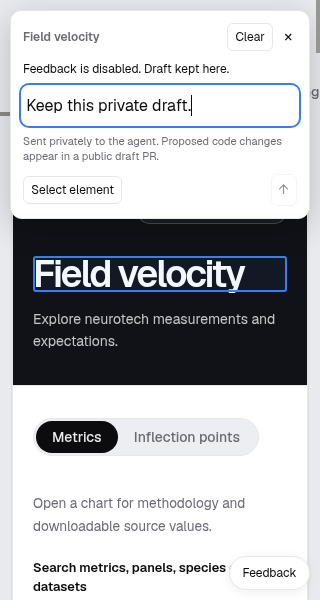
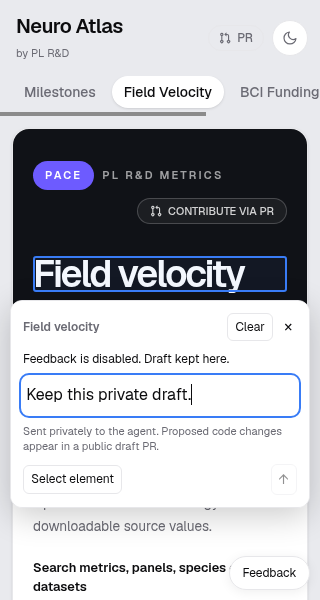
test: verify mobile element anchoring and viewport resize clamping

diff --git a/scripts/qa/feedback-element-browser.py b/scripts/qa/feedback-element-browser.py
@@ -32,7 +32,24 @@ colors=js('''(()=>{const d=document.querySelector('[data-feedback-composer]'),i=
 capture_screenshot(path=str(out/'dark-composer-1440.png'))
 press_key('Escape');wait('!document.querySelector("[data-feedback-composer]")')
 click('button[aria-label="Switch to light mode"]');wait('!document.documentElement.classList.contains("dark")')
-result={'nativeNestedSvgButtonPick':True,'underlyingThemeActionSuppressed':True,'hoverOutlineMatchesActualButton':measure,'darkComposer':colors,'lightThemeRestored':True}
+cdp('Emulation.setDeviceMetricsOverride',width=390,height=1000,deviceScaleFactor=1,mobile=True)
+goto_url(base);wait_for_load();wait('!!document.querySelector(".atlas-feedback-launch")')
+click('.atlas-feedback-launch');wait('!!document.querySelector("[data-feedback-selection]:popover-open")')
+pick('h2','mobile-midpage-390')
+narrow=geometry(390)
+assert narrow['anchor'] and narrow['top']>12,narrow
+capture_screenshot(path=str(out/'mobile-anchored-390.png'))
+cdp('Emulation.setDeviceMetricsOverride',width=390,height=400,deviceScaleFactor=1,mobile=True)
+# Actual viewport resize drives the same placement listeners used for a software keyboard.
+wait('innerHeight===400')
+# CDP metrics changes precede the queued resize/visualViewport placement callback.
+# Await the actual UI condition, not only the synchronous window metric.
+wait("document.querySelector('[data-feedback-composer]').getBoundingClientRect().bottom <= 400")
+keyboard=geometry(390)
+assert keyboard['bottom']<=400,keyboard
+capture_screenshot(path=str(out/'mobile-keyboard-clamp-390.png'))
+press_key('Escape');wait('!document.querySelector("[data-feedback-composer]")')
+result={'nativeNestedSvgButtonPick':True,'underlyingThemeActionSuppressed':True,'hoverOutlineMatchesActualButton':measure,'darkComposer':colors,'lightThemeRestored':True,'narrowElementAnchoring':narrow,'keyboardSizedViewportClamp':keyboard}
 (out/'extra-native-results.json').write_text(json.dumps(result,indent=2)+'\n')
 print(json.dumps(result))
 assert colors['contrast']>=4.5,colors

diff --git a/scripts/qa/feedback-browser.py b/scripts/qa/feedback-browser.py
@@ -49,8 +49,8 @@ def geometry(width):
  if anchor:
   below=anchor['bottom']+8
   above=anchor['top']-result['height']-8
-  if below+result['height']<=result['viewportHeight']-10:assert abs(result['top']-below)<=2,result
-  elif above>=10:assert abs(result['top']-above)<=2,result
+  if below>=10 and below+result['height']<=result['viewportHeight']-10:assert abs(result['top']-below)<=2,result
+  elif above>=10 and above+result['height']<=result['viewportHeight']-10:assert abs(result['top']-above)<=2,result
  return result
 results=[]
 for width in [1440,390,320]:

diff --git a/docs/qa/feedback/README.md b/docs/qa/feedback/README.md
@@ -1,6 +1,6 @@
 # One-field feedback native QA
 
-Runtime source: `b1955fc881f1a81b32f6c4da1592eb3ba1076616`. The final evidence-only head is runtime-equivalent; exact-head tests/review receipts are in the PR.
+Runtime source: `a5098ff1084ceae1e4cd4f6f8a1a916faf3687d4`. The final evidence-only head is runtime-equivalent; exact-head tests/review receipts are in the PR.
 
 Captures use the **actual Atlas Next production build** mounted at `/neuro-atlas` on a disposable `127.0.0.1:35641` fixture. Only the copied proxy is replaced by a raw-Host/runtime-flag guard; it is never committed or deployed. Its exact source-revision header was checked before native replays. Source auth, scientific data and hosting configuration are unchanged. The owner's private reference recording is not published here.
 
@@ -8,7 +8,7 @@ Captures use the **actual Atlas Next production build** mounted at `/neuro-atlas
 
 - `native-results.json`: actual heading and native-chart hover outlines, click-to-pin compact composer, exactly ONE textarea/zero input fields, disabled draft retention, reselect/Escape/focus and unchanged underlying native chart at 1440/390/320px. The 320px case is 600px tall. Requested viewport width, actual inner width, document/client width and popup bounds are checked.
 - `synthetic-ui-results.json`: actual rendered client with **explicitly synthetic identity/network/popup peers** at those three widths. Picking the original chart's Close button suppresses its full activation sequence. Enter submits; Shift+Enter makes a newline. Failed retry retains identical UUID/body/element; confirmed save closes the composer and shows a real top-layer “Feedback saved” toast above the original modal. Received is not started; no PR/preview is invented. Same-ID follow-up and keyboard focus are exercised.
-- `extra-native-results.json`: actual nested theme-button SVG targets its button without toggling it, outline geometry matches the exact button, dark input contrast is measured in the real app, and light mode is restored. These are pointer/browser checks, not a physical-phone touch certification.
+- `extra-native-results.json`: actual nested theme-button SVG targets its button without toggling it, outline geometry matches the exact button, dark input contrast is measured in the real app, and light mode is restored. At 390 × 1000, a middle-of-page heading pins the composer 8px below its actual outline, rather than at the viewport top. Resizing to 390 × 400 verifies the same mounted composer responds to actual viewport changes and clamps on-screen; this simulates the available-space change from a software keyboard, not a physical-keyboard test. The replay awaits the actual queued placement result after CDP's synchronous metric update. These are pointer/browser checks, not a physical-phone touch certification.
 - One replay encountered a backgrounded headed tab after a synthetic popup. Readback showed the composer still open and the page hidden; fronting the same owned page made History work. The helper now fronts/paints before measuring each pointer action. The complete strengthened matrices then passed; no product or auth change was made for that harness issue.
 
 ## Privacy and integration
@@ -34,6 +34,8 @@ Synthetic script registration is removed in finally; navigation clears its in-pa
 - `composer-1440.png` / `composer-320.png`: real page-heading feedback; narrow short viewport remains bounded.
 - `chart-composer-1440.png`: feedback anchored below the selected plot while its native modal remains open.
 - `dark-composer-1440.png`: real dark-mode heading and composer.
+- `mobile-anchored-390.png`: a middle-of-page element with the composer directly below, not detached at the top.
+- `mobile-keyboard-clamp-390.png`: the same composer remains fully inside the resized 390 × 400 viewport.
 - `synthetic-retry-390.png`: one-field failed-save retention using synthetic transport.
 - `synthetic-saved-1440.png`: confirmed synthetic receipt, visible top-layer saved toast.
 - `synthetic-history-320.png`: versioned follow-up/status, synthetic peers; not a real hosted owner submission.
